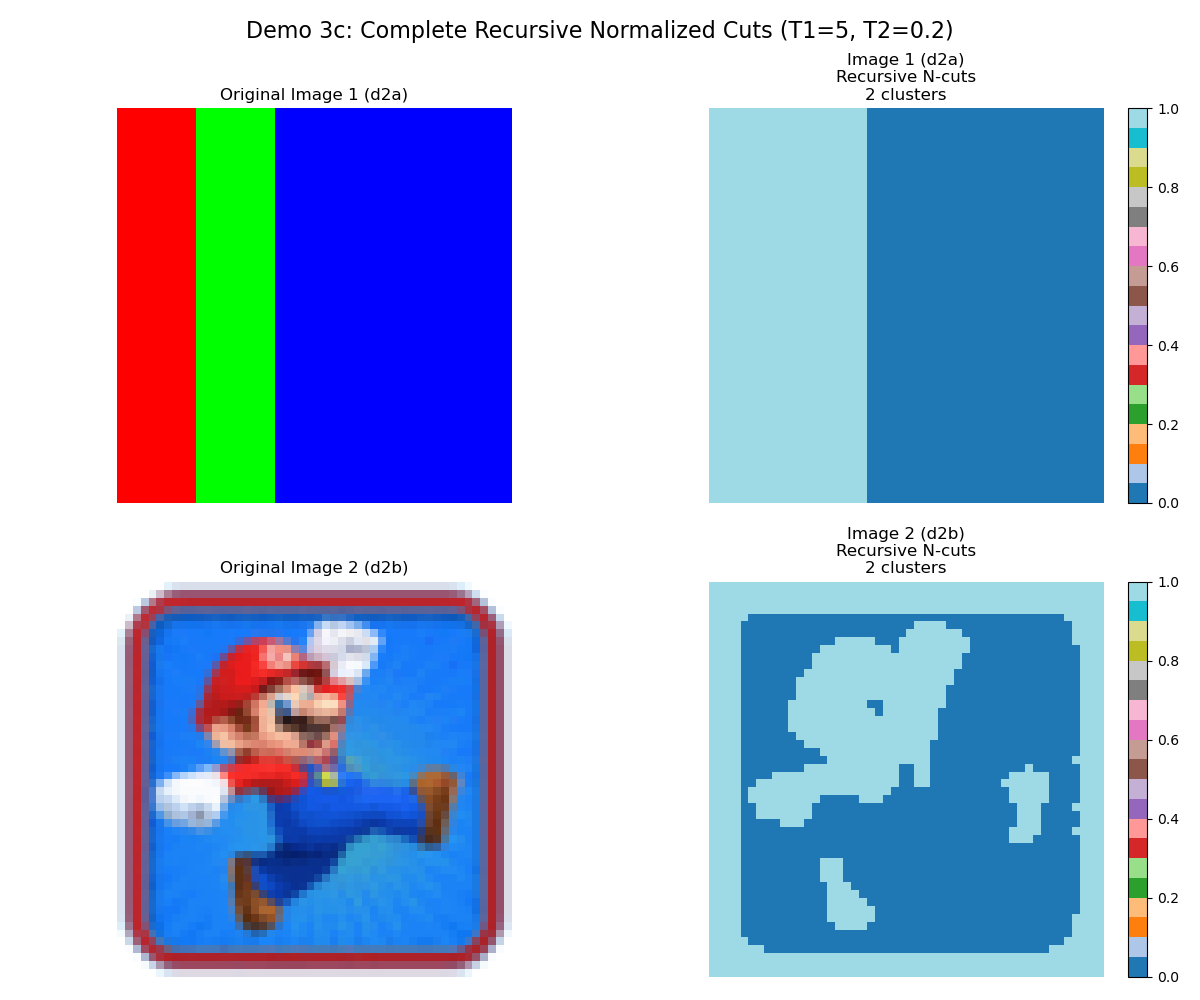
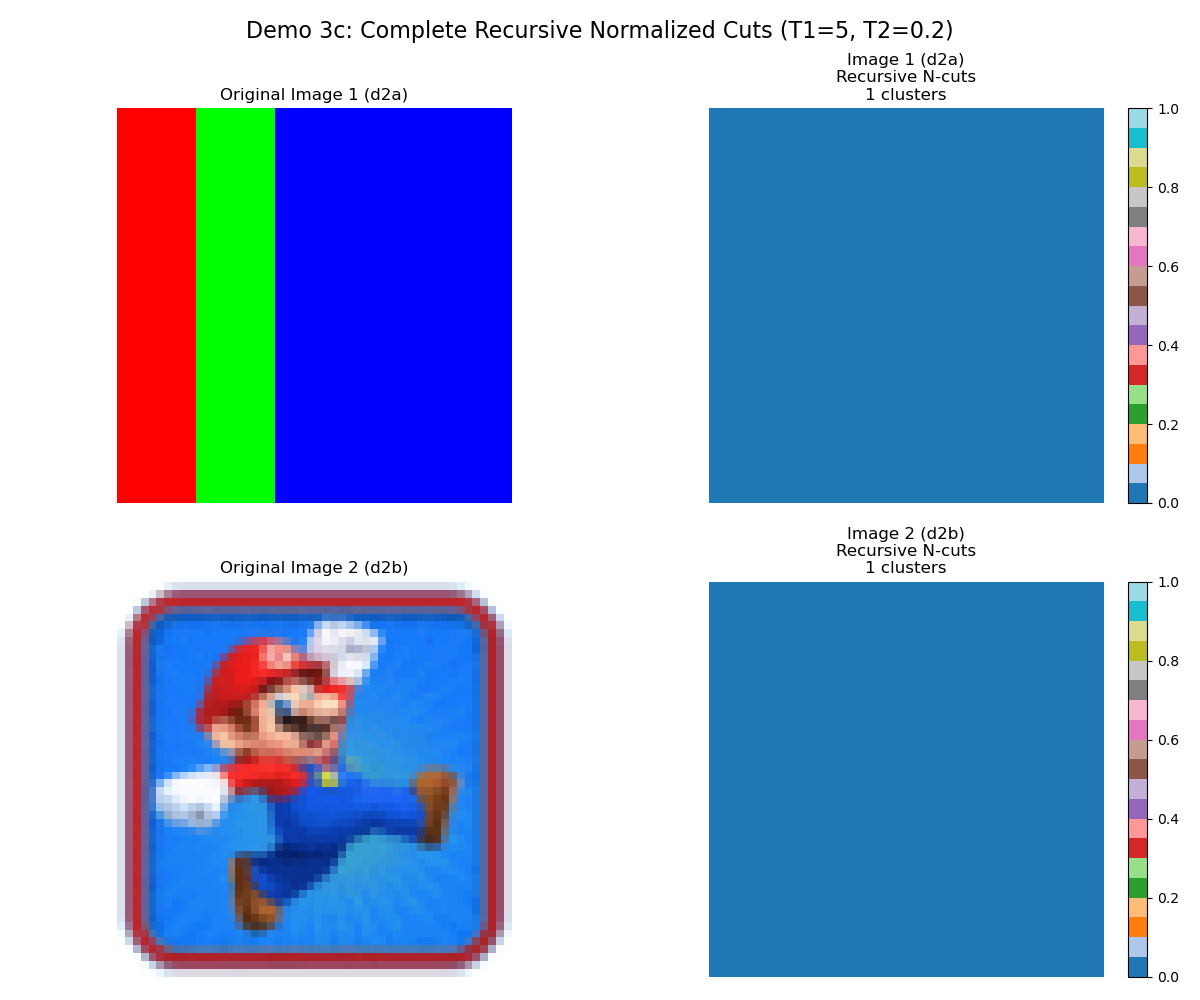
report finished, only proofread remains

Changed region(s): [[0.5858, 0.558, 0.925, 0.992], [0.5858, 0.093, 0.74, 0.527]]

diff --git a/report/report.tex b/report/report.tex
@@ -136,9 +136,9 @@ spectral\_clustering(), λύνεται η γενικευμένη εξίσωση 
     D^{-1} Lx = \lambda x
 \end{gather}
 και βρίσκονται ιδιοτιμές και τα αντίστοιχα ιδιοδιανύσματα. Η συνάρτηση 
-scipy.sparse.linalg.eigs() καλείται με ορίσματα k=$k$ και 
+scipy.sparse.linalg.eigs() καλείται με ορίσμα\-τα k=$k$ και 
 which='SM', έτσι ώστε η συνάρτηση να επιστρέψει τις $k$ μικρότερες σε μέτρο
-ιδιοτιμές. Τέλος δημιουργείται ο πίνακας $U$
+ιδιοτιμές. Τέλος δημιουργεί\-ται ο πίνακας $U$
 που έχει στήλες τα ιδιοδιανύσματα του Λαπλασιανού πίνακα $L$ και ομαδοποιούνται
 οι γραμμές του $U$ με τη μέθοδο k-means. Έξοδος της συνάρτησης είναι το array 
 cluster\_idx που περιέχει τις ετικέτες που δηλώνουν σε ποιό cluster ανήκει κάθε
@@ -202,33 +202,75 @@ affinity matrix με τη χρήση της img\_to\_graph(). Για κάθε af
 των clusters είναι τα όρια των στηλών χρώματος. Για $k=4$ σε σχέση με τη μέθοδο 
 spectral\_clustering() έχουμε περισσότερα
 pixels που ανήκουν στο τέταρτο cluster, το οποίο δν προσφέρει καμία πληροφορία.
+Στην κάτω εικόνα βλέπουμε ήδη για $k=2$ ότι η σιλουέτα του Mario διαγράφεται 
+καλύτερα σε σχέση με τη μέθοδο spectral clustering. Στο ένα cluster ανήκουν 
+όλα τα pixel που δεν είναι γενικά μπλε και στο
+άλλο ανήκουν το background, το παντελόνι και τα μπλε μάτια του Mario. Για $k=3$,
+τα clusters χωρίζονται σε κόκκινο-καφέ, άσπρο-χρώμα δέρματος και μπλε. Ακόμα και
+αν δεν είχαμε την αρχική εικόνα, θα μπορούσαμε από αυτήν την εικόνα να αναγνωρίσουμε
+ότι απεικονίζεται ο Mario. Για $k=4$ η μέθοδος normalized cuts κατάφερε να διαχωρίσει
+το σκούρο μπλε του παντελονιού του Mario και το φωτεινό μπλε background σε 
+διαφορετικά clusters. Από την άλλη έχουμε υπερβολική λεπτομέρεια στα σημεία όπου 
+τα κόκκινα borders γίνονται μπλε background η οποία δεν είναι ιδιαίτερα βοηθητική.
 
 \begin{figure}
     \centering
     \includegraphics[width=\linewidth]{Figure_3.png}
     \caption{Αποτελέσματα μεθόδου normalized cuts (non-recursive) σε εικόνες}\label{figure3}
 \end{figure}
-\subsection{demo3b}
 
+\subsection{demo3b}
+Στο αρχείο demo3b.py γίνεται η επίδειξη της μεθόδου recursive normalized cuts. Όμοια
+με το demo3a.py φορτώνονται οι δοσμένες εικόνες d2a, d2b και υπολογίζονται τα affinity 
+matrices τους με την img\_to\_graph(). Έπειτα εκτελείται το πρώτο βήμα της recursive
+n-cuts μεθόδου. Καλείται η συνάρτηση n\_cuts() με ορίσμα\-τα τους πίνακες affinity 
+των εικόνων και $k=2$. Υπολογίζεται η τιμή n\_cut καλώντας την συνάρτηση 
+calculate\_n\_cut\_value(). Τα ορίσμα\-τά της είναι ο πίνακας affinity και το
+array cluster\_idx έξοδος της n\_cuts(). Έπειτα προβάλλεται στην οθόνη η 
+αρχική εικόνα, η εικόνα με τα δύο διαφορετικά clusters και η τιμή n\_cut.
+Βλέπουμε στην~\autoref{figure4} ότι για $k=2$, τα αποτελέσματα είναι τα 
+ίδια με την῀\autoref{figure3}. Η τιμή n\_cut για την πάνω περίπτωση είναι περίπου 0.51 και για 
+την κάτω περίπου 0.78. 
 
 \begin{figure}
     \centering
     \includegraphics[width=\linewidth]{Figure_4.png}
-    \caption{Αποτελέσματα spectral clustering σε έτοιμο affinity matrix}\label{figure4}
+    \caption{Αποτελέσματα recursive n-cuts μεθόδου για μία επανάληψη}\label{figure4}
 \end{figure}
-\subsection{demo3c}
 
+\subsection{demo3c}
+Στο αρχείο demo3c.py γίνεται η επίδειξη της ολοκληρωμένης μεθόδου recursive 
+normalized cuts. Όμοια με το demo3a.py φορτώνονται οι δοσμένες εικόνες d2a, d2b και υπολογίζονται τα affinity 
+matrices τους με την img\_to\_graph(). Έπειτα καλείται η  n\_cuts\_recursive() 
+με ορίσματα τον affinity πίνακα του γράφου της εικόνας και thresholds $T1=5$, $T2=0.2$. Βλέπουμε
+από την~\autoref{figure5} ότι η αναδρομική μέθοδος δεν έτρεξε ούτε μια φορά και όλα τα pixels
+και στις δύο εικόνες είναι σε ένα cluster, το αρχικό. Αυτό είναι το αναμενόμενο
+αποτέλεσμα, αφού υπολογίσαμε στο demo3b.py τις n\_cut τιμές των αρχικών εικόνων 
+0.51 και 0.78, πολύ μεγαλύτερες από το threshold $T2=0.2$.
+
+Επειδή δεν έχουμε δει ακόμα την n\_cuts\_recursive() με αναδρομία, ξαναέτρεξα το
+demo3c.py για $T2=0.8$. Βλέπουμε τα αποτελέσματα στην~\autoref{figure6}. Στην 
+πάνω περίπτωση τα αποτελέσματα είναι ακριβώς ίδια για την περίπτωση της 
+μη αναδρομικής n-cuts μεθόδου για $k=3$. Για την κάτω περίπτωση είναι 
+γενικά παρόμοιο με τη μη-αναδρομική μέθοδο για $k=3$, 
+ένα cluster για άσπρο χρώμα και χρώμα δέρματος, ένα cluster 
+για καφέ και κόκκινο και ένα cluster για το μπλε. Μπορούμε να
+δούμε μικρές διαφορές στα κόκκινα borders, στο ένα γάντι του Mario
+και γύρω απο τα χρυσά κουμπιά στη σαλοπέτα του. Προφανώς η σωστή 
+λειτουργία της n\_cuts\_recursive() εξαρτάται από την επιλογή 
+του threshold $T2$. 
 
 \begin{figure}
     \centering
     \includegraphics[width=\linewidth]{Figure_5.png}
-    \caption{Αποτελέσματα spectral clustering σε έτοιμο affinity matrix}\label{figure5}
+    \caption{Αποτελέσματα αναδρομικής n-cuts μεθόδου για $T2=0.2$}\label{figure5}
 \end{figure}
 
 
 \begin{figure}
     \centering
     \includegraphics[width=\linewidth]{Figure_6.png}
-    \caption{Αποτελέσματα spectral clustering σε έτοιμο affinity matrix}\label{figure6}
+    \caption{Αποτελέσματα αναδρομικής n-cuts μεθόδου για $T2=0.8$}\label{figure6}
 \end{figure}
+
 \end{document}

diff --git a/demo3c.py b/demo3c.py
@@ -2,13 +2,12 @@ import numpy as np
 import matplotlib.pyplot as plt
 from scipy.io import loadmat
 from img_to_graph import img_to_graph
-from n_cuts import n_cuts_recursive, n_cuts, calculate_n_cut_value
+from n_cuts import n_cuts_recursive
 
 def demo3c():
     """
     Demo 3c: Complete recursive normalized cuts on images d2a and d2b.
-    First manually splits image into 2 clusters using n_cuts(), then applies
-    n_cuts_recursive() to each resulting cluster. Uses T1=5 and T2=0.20 as thresholds.
+    Uses T1=5 and T2=0.20 as thresholds.
     """
     
     # Load the images from .mat file
@@ -47,7 +46,7 @@ def demo3c():
     
     # Set thresholds
     T1 = 5   # Minimum number of pixels in a cluster
-    T2 = 0.80  # Threshold for n_cut value
+    T2 = 0.20  # Threshold for n_cut value
     
     # Create figure for results
     fig, axes = plt.subplots(2, 2, figsize=(12, 10))
@@ -71,57 +70,21 @@ def demo3c():
         affinity_mat = img_to_graph(img)
         print(f"Affinity matrix shape: {affinity_mat.shape}")
         
-        # Step 1: Manually split the image into 2 clusters using n_cuts()
-        print("Step 1: Manual binary split using n_cuts()...")
-        initial_clusters = n_cuts(affinity_mat, k=2)
-        print('ncut_value: ', calculate_n_cut_value(affinity_mat, initial_clusters))
+        # Perform complete recursive normalized cuts
+        print("Performing recursive normalized cuts...")
+        cluster_labels = n_cuts_recursive(affinity_mat, T1, T2)
         
-        # Get indices for each initial cluster
-        unique_initial = np.unique(initial_clusters)
-        cluster_A_indices = np.where(initial_clusters == unique_initial[0])[0]
-        cluster_B_indices = np.where(initial_clusters == unique_initial[1])[0]
+        # Get unique clusters and their counts
+        unique_clusters = np.unique(cluster_labels)
+        cluster_counts = np.bincount(cluster_labels.astype(int))
         
-        print(f"Initial split - Cluster A: {len(cluster_A_indices)} pixels, Cluster B: {len(cluster_B_indices)} pixels")
-        
-        # Initialize final result array
-        final_cluster_labels = np.zeros(len(initial_clusters), dtype=np.float64)
-        max_label = 0
-        
-        # Step 2: Apply n_cuts_recursive() to each resulting cluster
-        print("Step 2: Applying recursive n_cuts to each cluster...")
-        
-        # Process Cluster A
-        if len(cluster_A_indices) > 0:
-            print(f"  Processing Cluster A ({len(cluster_A_indices)} pixels)...")
-            subgraph_A = affinity_mat[np.ix_(cluster_A_indices, cluster_A_indices)]
-            sub_result_A = n_cuts_recursive(subgraph_A, T1, T2)
-            # Adjust labels to be unique globally
-            sub_result_A = sub_result_A + max_label
-            final_cluster_labels[cluster_A_indices] = sub_result_A
-            max_label = int(np.max(sub_result_A)) + 1
-            print(f"    Cluster A resulted in {len(np.unique(sub_result_A))} sub-clusters")
-        
-        # Process Cluster B
-        if len(cluster_B_indices) > 0:
-            print(f"  Processing Cluster B ({len(cluster_B_indices)} pixels)...")
-            subgraph_B = affinity_mat[np.ix_(cluster_B_indices, cluster_B_indices)]
-            sub_result_B = n_cuts_recursive(subgraph_B, T1, T2)
-            # Adjust labels to be unique globally
-            sub_result_B = sub_result_B + max_label
-            final_cluster_labels[cluster_B_indices] = sub_result_B
-            print(f"    Cluster B resulted in {len(np.unique(sub_result_B))} sub-clusters")
-        
-        # Get final statistics
-        unique_clusters = np.unique(final_cluster_labels)
-        cluster_counts = np.bincount(final_cluster_labels.astype(int))
-        
-        print(f"Final result: {len(unique_clusters)} total clusters")
+        print(f"Number of final clusters: {len(unique_clusters)}")
         print(f"Cluster distribution: {cluster_counts[cluster_counts > 0]}")
-        print(f"Cluster labels range: {final_cluster_labels.min():.0f} to {final_cluster_labels.max():.0f}")
+        print(f"Cluster labels range: {cluster_labels.min():.0f} to {cluster_labels.max():.0f}")
         
         # Reshape cluster labels back to image dimensions
         M, N = img.shape[:2]
-        cluster_image = final_cluster_labels.reshape(M, N)
+        cluster_image = cluster_labels.reshape(M, N)
         
         # Display clustering result
         num_clusters = len(unique_clusters)
@@ -135,10 +98,10 @@ def demo3c():
         # Print some statistics about the clustering
         print(f"Cluster sizes: {sorted(cluster_counts[cluster_counts > 0], reverse=True)}")
         
-        # Check if any clusters are smaller than T1
+        # Check if any clusters are smaller than T1 (should not happen unless they weren't split due to T2)
         small_clusters = np.sum(cluster_counts < T1) - np.sum(cluster_counts == 0)
         if small_clusters > 0:
-            print(f"Note: {small_clusters} clusters have fewer than T1={T1} pixels (stopped due to T2 threshold)")
+            print(f"Warning: {small_clusters} clusters have fewer than T1={T1} pixels")
     
     plt.tight_layout()
     plt.show()

diff --git a/demo3b.py b/demo3b.py
@@ -67,18 +67,18 @@ def demo3b():
         
         # Perform one step of recursive normalized cuts (k=2)
         print("Performing binary normalized cuts (k=2)...")
-        cluster_labels = n_cuts(affinity_mat, k=2)
+        cluster_idx = n_cuts(affinity_mat, k=2)
         
         # Calculate n_cut value
-        n_cut_value = calculate_n_cut_value(affinity_mat, cluster_labels)
+        n_cut_value = calculate_n_cut_value(affinity_mat, cluster_idx)
         print(f"N-cut value: {n_cut_value:.4f}")
         
-        print(f"Number of unique clusters found: {len(np.unique(cluster_labels))}")
-        print(f"Cluster distribution: {np.bincount(cluster_labels.astype(int))}")
+        print(f"Number of unique clusters found: {len(np.unique(cluster_idx))}")
+        print(f"Cluster distribution: {np.bincount(cluster_idx.astype(int))}")
         
         # Reshape cluster labels back to image dimensions
         M, N = img.shape[:2]
-        cluster_image = cluster_labels.reshape(M, N)
+        cluster_image = cluster_idx.reshape(M, N)
         
         # Display clustering result
         im = axes[img_idx, 1].imshow(cluster_image, cmap='tab10', vmin=0, vmax=1)
@@ -95,3 +95,4 @@ def demo3b():
 
 if __name__ == "__main__":
     demo3b()
+

diff --git a/spectral_clustering.py b/spectral_clustering.py
@@ -41,3 +41,4 @@ def spectral_clustering(affinity_mat, k):
     cluster_idx = kmeans.labels_
     
     return cluster_idx.astype(np.float64)
+

diff --git a/img_to_graph.py b/img_to_graph.py
@@ -29,3 +29,4 @@ def img_to_graph(img_array):
     np.fill_diagonal(affinity_mat, 1.0)
     
     return affinity_mat.astype(np.float64)
+

diff --git a/demo1.py b/demo1.py
@@ -57,3 +57,4 @@ def demo1():
 
 if __name__ == "__main__":
     demo1()
+

diff --git a/demo2.py b/demo2.py
@@ -96,3 +96,4 @@ def demo2():
 
 if __name__ == "__main__":
     demo2()
+
